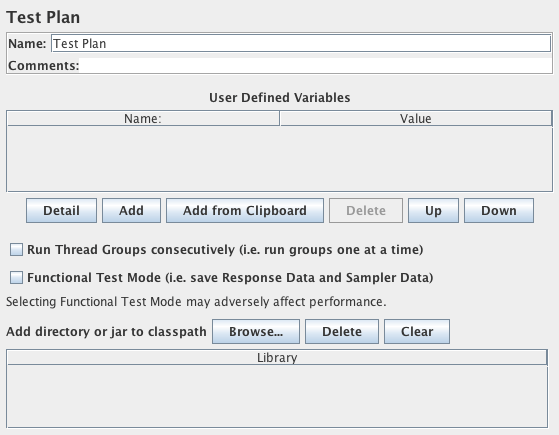
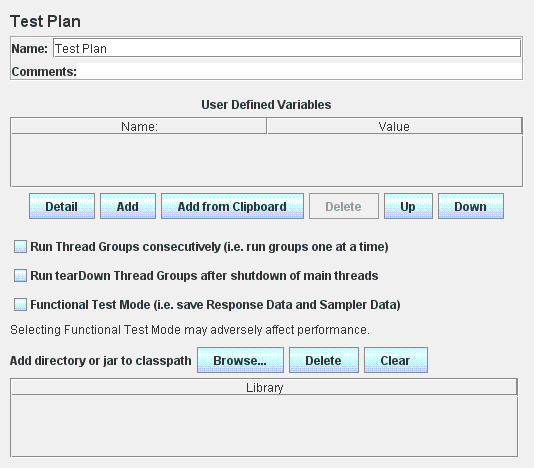
Run tearDown Thread Groups after shutdown of main threads Bugzilla Id: 53671
git-svn-id: https://svn.apache.org/repos/asf/jmeter/trunk@1378929 13f79535-47bb-0310-9956-ffa450edef68

Former-commit-id: aee904c46e7e01ad1195dd602c5b2ad7b13d195f

Changed region(s): [[0.0, 0.2092, 0.9888, 0.9862], [0.0, 0.0, 0.9888, 0.1793]]

diff --git a/src/core/org/apache/jmeter/engine/StandardJMeterEngine.java b/src/core/org/apache/jmeter/engine/StandardJMeterEngine.java
@@ -91,11 +91,17 @@ public class StandardJMeterEngine implements JMeterEngine, Runnable {
     /** Flag to show whether test is running. Set to false to stop creating more threads. */
     private volatile boolean running = false;
 
+    /** Flag to show whether test was shutdown gracefully. */
+    private volatile boolean shutdown = false;
+
     /** Flag to show whether engine is active. Set to false at end of test. */
     private volatile boolean active = false;
 
     /** Thread Groups run sequentially */
     private volatile boolean serialized = false;
+
+    /** tearDown Thread Groups run after shutdown of main threads */
+    private volatile boolean tearDownOnShutdown = false;
 
     private HashTree test;
 
@@ -160,9 +166,9 @@ public class StandardJMeterEngine implements JMeterEngine, Runnable {
         if (plan.length == 0) {
             throw new RuntimeException("Could not find the TestPlan class!");
         }
-        if (((TestPlan) plan[0]).isSerialized()) {
-            serialized = true;
-        }
+        TestPlan tp = (TestPlan) plan[0];
+        serialized = tp.isSerialized();
+        tearDownOnShutdown = tp.isTearDownOnShutdown();
         active = true;
         test = testTree;
     }
@@ -245,8 +251,9 @@ public class StandardJMeterEngine implements JMeterEngine, Runnable {
         stopTest(true);
     }
 
-    public synchronized void stopTest(boolean b) {
-        Thread stopThread = new Thread(new StopTest(b));
+    public synchronized void stopTest(boolean now) {
+        shutdown = !now;
+        Thread stopThread = new Thread(new StopTest(now));
         stopThread.start();
     }
 
@@ -371,6 +378,7 @@ public class StandardJMeterEngine implements JMeterEngine, Runnable {
         System.gc();
 
         JMeterContextService.getContext().setSamplingStarted(true);
+        boolean mainGroups = running; // still running at this point, i.e. setUp was not cancelled
         while (running && iter.hasNext()) {// for each thread group
             AbstractThreadGroup group = iter.next();
             //ignore Setup and Post here.  We could have filtered the searcher. but then
@@ -406,6 +414,9 @@ public class StandardJMeterEngine implements JMeterEngine, Runnable {
             groupCount = 0;
             JMeterContextService.clearTotalThreads();
             log.info("Starting tearDown thread groups");
+            if (mainGroups && !running) { // i.e. shutdown/stopped during main thread groups
+                running = shutdown & tearDownOnShutdown; // re-enable for tearDown if necessary
+            }
             while (running && postIter.hasNext()) {//for each setup thread group
                 AbstractThreadGroup group = postIter.next();
                 groupCount++;
@@ -502,7 +513,7 @@ public class StandardJMeterEngine implements JMeterEngine, Runnable {
     }
 
     /**
-     * For each thread group, invoke:
+     * For each current thread group, invoke:
      * <ul> 
      * <li>{@link AbstractThreadGroup#stop()} - set stop flag</li>
      * </ul> 

diff --git a/src/core/org/apache/jmeter/control/gui/TestPlanGui.java b/src/core/org/apache/jmeter/control/gui/TestPlanGui.java
@@ -55,6 +55,8 @@ public class TestPlanGui extends AbstractJMeterGuiComponent {
 
     private final JCheckBox serializedMode;
 
+    private final JCheckBox tearDownOnShutdown;
+
     /** A panel allowing the user to define variables. */
     private final ArgumentsPanel argsPanel;
 
@@ -68,6 +70,7 @@ public class TestPlanGui extends AbstractJMeterGuiComponent {
         argsPanel = new ArgumentsPanel(JMeterUtils.getResString("user_defined_variables")); // $NON-NLS-1$
         serializedMode = new JCheckBox(JMeterUtils.getResString("testplan.serialized")); // $NON-NLS-1$
         functionalMode = new JCheckBox(JMeterUtils.getResString("functional_mode")); // $NON-NLS-1$
+        tearDownOnShutdown = new JCheckBox(JMeterUtils.getResString("teardown_on_shutdown")); // $NON-NLS-1$
         init();
     }
 
@@ -113,6 +116,7 @@ public class TestPlanGui extends AbstractJMeterGuiComponent {
         if (plan instanceof TestPlan) {
             TestPlan tp = (TestPlan) plan;
             tp.setFunctionalMode(functionalMode.isSelected());
+            tp.setTearDownOnShutdown(tearDownOnShutdown.isSelected());
             tp.setSerialized(serializedMode.isSelected());
             tp.setUserDefinedVariables((Arguments) argsPanel.createTestElement());
             tp.setTestPlanClasspathArray(browseJar.getFiles());
@@ -151,6 +155,7 @@ public class TestPlanGui extends AbstractJMeterGuiComponent {
             TestPlan tp = (TestPlan) el;
         functionalMode.setSelected(tp.isFunctionalMode());
         serializedMode.setSelected(tp.isSerialized());
+        tearDownOnShutdown.setSelected(tp.isTearDownOnShutdown());
         final JMeterProperty udv = tp.getUserDefinedVariablesAsProperty();
         if (udv != null) {
             argsPanel.configure((Arguments) udv.getObjectValue());
@@ -172,6 +177,7 @@ public class TestPlanGui extends AbstractJMeterGuiComponent {
 
         VerticalPanel southPanel = new VerticalPanel();
         southPanel.add(serializedMode);
+        southPanel.add(tearDownOnShutdown);
         southPanel.add(functionalMode);
         JTextArea explain = new JTextArea(JMeterUtils.getResString("functional_mode_explanation")); // $NON-NLS-1$
         explain.setEditable(false);
@@ -187,6 +193,7 @@ public class TestPlanGui extends AbstractJMeterGuiComponent {
         super.clearGui();
         functionalMode.setSelected(false);
         serializedMode.setSelected(false);
+        tearDownOnShutdown.setSelected(false);
         argsPanel.clear();
         browseJar.clearFiles();
     }

diff --git a/src/core/org/apache/jmeter/testelement/TestPlan.java b/src/core/org/apache/jmeter/testelement/TestPlan.java
@@ -48,6 +48,9 @@ public class TestPlan extends AbstractTestElement implements Serializable, TestS
     private static final String SERIALIZE_THREADGROUPS = "TestPlan.serialize_threadgroups"; //$NON-NLS-1$
 
     private static final String CLASSPATHS = "TestPlan.user_define_classpath"; //$NON-NLS-1$
+
+    private static final String TEARDOWN_ON_SHUTDOWN = "TestPlan.tearDown_on_shutdown"; //$NON-NLS-1$
+
     //- JMX field names
 
     private static final String CLASSPATH_SEPARATOR = ","; //$NON-NLS-1$
@@ -142,6 +145,14 @@ public class TestPlan extends AbstractTestElement implements Serializable, TestS
 
     public void setSerialized(boolean serializeTGs) {
         setProperty(new BooleanProperty(SERIALIZE_THREADGROUPS, serializeTGs));
+    }
+
+    public void setTearDownOnShutdown(boolean tearDown) {
+        setProperty(TEARDOWN_ON_SHUTDOWN, tearDown, false);
+    }
+
+    public boolean isTearDownOnShutdown() {
+        return getPropertyAsBoolean(TEARDOWN_ON_SHUTDOWN, false);
     }
 
     /**
